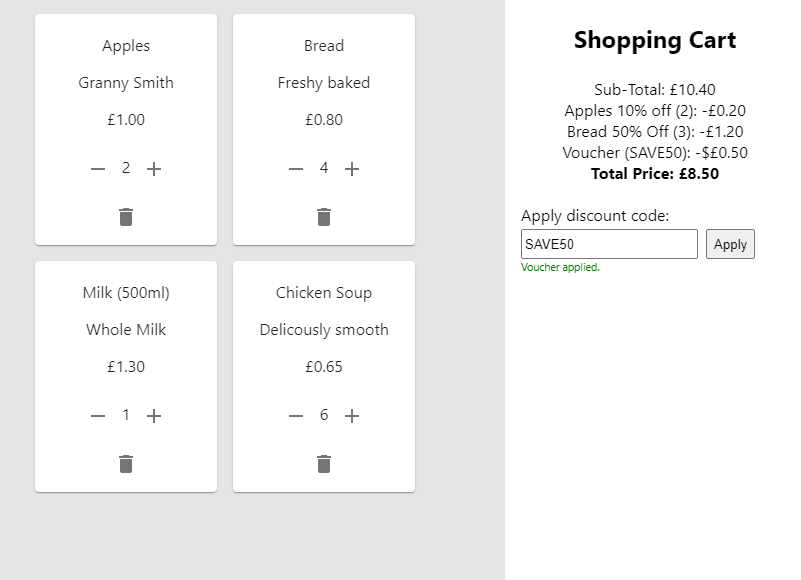
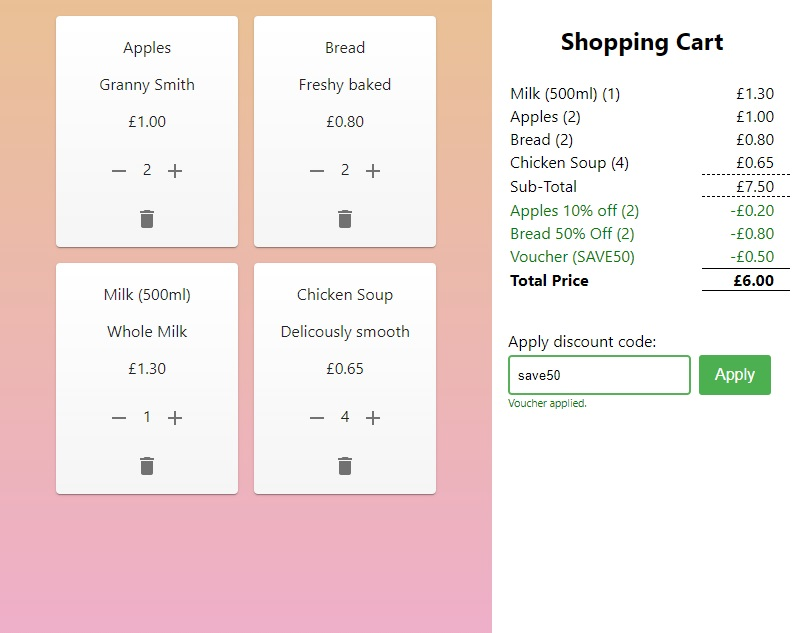
Add list of bought items to cart, update css styling to add colours. Put cart items into table

diff --git a/src/shopping/Cart.js b/src/shopping/Cart.js
@@ -1,4 +1,4 @@
-import React, { useState } from "react";
+import React, { useState, Fragment } from "react";
 import "./Cart.css";
 import { offerFilters, discountCodes } from "./offers";
 import { formatPrice } from "./cartHelper";
@@ -30,7 +30,12 @@ const Cart = (props) => {
         if (offer.discount > 0) {
           offerMatched = true;
         }
-        return <div key={index}>{offer.message}</div>;
+        const offerMessage = offer.message ? (
+          <tr className="offer" key={index}>
+            {offer.message}
+          </tr>
+        ) : null;
+        return offerMessage;
       });
 
     if (voucher) {
@@ -38,17 +43,29 @@ const Cart = (props) => {
       total < 0 && (total = 0);
     }
     return (
-      <div>
-        {offerMatched ? offers : !voucher && <div>(No offers available)</div>}
+      <Fragment>
+        {offerMatched
+          ? offers
+          : !voucher && (
+              <td>
+                <tr>(No offers available)</tr>
+              </td>
+            )}
         {voucher && (
-          <div>
-            Voucher ({voucher.code}): -${formatPrice(voucher.amount)}
-          </div>
+          <tr className="offer">
+            <td>Voucher ({voucher.code})</td>
+            <td>-{formatPrice(voucher.amount)}</td>
+          </tr>
         )}
-        <div>
-          <b>Total Price: {formatPrice(total)}</b>
-        </div>
-      </div>
+        <tr>
+          <td>
+            <b>Total Price</b>
+          </td>
+          <td className="total">
+            <b>{formatPrice(total)}</b>
+          </td>
+        </tr>
+      </Fragment>
     );
   };
 
@@ -67,12 +84,26 @@ const Cart = (props) => {
   let priceSummary = getPriceSummary(items, subTotal);
 
   return (
-    <>
+    <Fragment>
       <p className="cartHeader">Shopping Cart</p>
-      <div>
-        Sub-Total: {formatPrice(subTotal)}
+      <table>
+        {Object.keys(items).map((key) => {
+          const item = items[key];
+          return (
+            <tr>
+              <td>
+                {item.name} ({item.quantity})
+              </td>
+              <td>{formatPrice(item.price)}</td>
+            </tr>
+          );
+        })}
+        <tr>
+          <td>Sub-Total</td>
+          <td className="subtotal">{formatPrice(subTotal)}</td>
+        </tr>
         {priceSummary}
-      </div>
+      </table>
       <br />
       <div className="discount">
         Apply discount code:
@@ -87,7 +118,7 @@ const Cart = (props) => {
         {voucherError && <div className="error">Invalid voucher.</div>}
         {voucher && <div className="success">Voucher applied.</div>}
       </div>
-    </>
+    </Fragment>
   );
 };
 

diff --git a/src/shopping/ShoppingApp.js b/src/shopping/ShoppingApp.js
@@ -1,12 +1,11 @@
-import './ShoppingApp.css';
-import inventory from './inventory';
-import Cart from './Cart';
-import React from 'react';
-import Item from './Item';
-import Grid from '@material-ui/core/Grid';
+import "./ShoppingApp.css";
+import inventory from "./inventory";
+import Cart from "./Cart";
+import React from "react";
+import Item from "./Item";
+import Grid from "@material-ui/core/Grid";
 
 class ShoppingApp extends React.Component {
-
   constructor(props) {
     super(props);
     this.state = {
@@ -14,10 +13,10 @@ class ShoppingApp extends React.Component {
     };
   }
 
-  getQuantity = item => {
+  getQuantity = (item) => {
     const cartItem = this.state.cart[item.sku];
     return cartItem ? cartItem.quantity : 0;
-  }
+  };
 
   setQuantity = (item, quantity) => {
     if (quantity === 0) {
@@ -27,37 +26,38 @@ class ShoppingApp extends React.Component {
     this.setState({
       cart: {
         ...this.state.cart,
-        [item.sku] : {...item, quantity}
+        [item.sku]: { ...item, quantity }
       }
     });
-  }
+  };
 
-  deleteItemFromCart = item => {
-    let newCart = {...this.state.cart};
+  deleteItemFromCart = (item) => {
+    let newCart = { ...this.state.cart };
     delete newCart[item.sku];
-    this.setState({cart: newCart});
-  }
+    this.setState({ cart: newCart });
+  };
 
   render() {
-    const items = <Grid container className="itemsWrapper" spacing={2}>
-      {
-        inventory.map(item => <Item
-                                key={item.sku} 
-                                item={item} 
-                                quantity={this.getQuantity(item)} 
-                                setQuantity={this.setQuantity}
-                                deleteItemFromCart={this.deleteItemFromCart}
-                                />)
-      }
-    </Grid>;
+    const items = (
+      <Grid container className="itemsWrapper" spacing={2}>
+        {inventory.map((item) => (
+          <Item
+            className="item"
+            key={item.sku}
+            item={item}
+            quantity={this.getQuantity(item)}
+            setQuantity={this.setQuantity}
+            deleteItemFromCart={this.deleteItemFromCart}
+          />
+        ))}
+      </Grid>
+    );
 
     return (
       <div className="shoppingApp">
-        <div className="leftSide">
-          {items}
-        </div>
+        <div className="leftSide">{items}</div>
         <div className="rightSide">
-          <Cart items={this.state.cart}/>
+          <Cart items={this.state.cart} />
         </div>
       </div>
     );

diff --git a/src/shopping/Cart.css b/src/shopping/Cart.css
@@ -1,29 +1,79 @@
 .drawer {
-    width: 300px;
-    flex-shrink: 0;
-  }
-  .cartHeader {
-    font-size: 24px;
-    font-weight: bold;
-  }
-  .discount {
-    text-align: left;
-    margin-left: 16px;
-  }
-  .voucher {
-    height: 24px;
-    margin-right: 8px;
-    margin-top: 4px;
-  }
-  .button {
-    height: 30px;
-  }
-  .error {
-    font-size: 8pt;
-    color: red;
-  }
-  .success {
-    font-size: 8pt;
-    color: green;
-  }
-  
+  width: 300px;
+  flex-shrink: 0;
+}
+.cartHeader {
+  font-size: 24px;
+  font-weight: bold;
+}
+.discount {
+  text-align: left;
+  margin-left: 16px;
+}
+.voucher {
+  height: 34px;
+  margin-right: 8px;
+  margin-top: 4px;
+  border: 2px solid #58b158;
+  border-radius: 4px;
+  padding-left: 8px;
+}
+.voucher:focus {
+  border: 2px solid #6cc56c;
+  box-shadow: 0px 0px 5px #a2f1a2;
+  border-radius: 4px;
+  outline: none;
+}
+.button {
+  height: 40px;
+  background-color: #4caf50; /* Green */
+  border: none;
+  border-radius: 3px;
+  color: white;
+  text-align: center;
+  text-decoration: none;
+  display: inline-block;
+  font-size: 16px;
+  padding: 0px 16px;
+}
+.button:hover {
+  background-color: #56c258; /* Green */
+}
+.button:active {
+  background-color: #378f38; /* Green */
+  transform: scale(0.95);
+}
+.error {
+  font-size: 8pt;
+  color: red;
+}
+.success {
+  font-size: 8pt;
+  color: green;
+}
+table {
+  display: table;
+  margin-bottom: 16px;
+  width: 100%;
+}
+td {
+  padding: 0px 16px;
+}
+td:nth-child(1) {
+  width: 70%;
+  text-align: left;
+}
+td:nth-child(2) {
+  text-align: right;
+}
+.subtotal {
+  border-bottom: 1px dashed black;
+  border-top: 1px dashed black;
+}
+.total {
+  border-bottom: 1px solid black;
+  border-top: 1px solid black;
+}
+.offer {
+  color: green;
+}

diff --git a/src/shopping/offers.js b/src/shopping/offers.js
@@ -1,3 +1,4 @@
+import { Fragment } from "react";
 import { SKU } from "./inventory";
 import { formatPrice } from "./cartHelper";
 
@@ -11,7 +12,12 @@ export const offerFilters = [
     if (itemInBasket) {
       const { quantity, price } = itemInBasket;
       discount = price * quantity * 0.1;
-      message = `Apples 10% off (${quantity}): -${formatPrice(discount)}`;
+      message = (
+        <Fragment>
+          <td>Apples 10% off ({quantity})</td>
+          <td>-{formatPrice(discount)}</td>
+        </Fragment>
+      );
     }
     return {
       message,
@@ -33,9 +39,12 @@ export const offerFilters = [
           breadInBasket.quantity
         );
         discount = breadInBasket.price * numberOfDiscounts * 0.5;
-        message = `Bread 50% Off (${numberOfDiscounts}): -${formatPrice(
-          discount
-        )}`;
+        message = (
+          <Fragment>
+            <td>Bread 50% Off ({numberOfDiscounts})</td>
+            <td>-{formatPrice(discount)}</td>
+          </Fragment>
+        );
       }
     }
     return {

diff --git a/src/shopping/ShoppingApp.css b/src/shopping/ShoppingApp.css
@@ -1,13 +1,9 @@
 .shoppingApp {
   text-align: center;
-  background-color: rgb(230, 228, 228);
-  min-height: 100vh;
+  height: 100vh;
   display: flex;
   flex-direction: column;
-  align-items: center;
   justify-content: center;
-  font-size: 16px;
-  height: 100%;
 }
 
 .itemsWrapper {
@@ -23,7 +19,11 @@
   height: 100%;
   overflow-y: auto;
   overflow-x: hidden;
-  /* padding: 10px; */
+  background: linear-gradient(
+    0deg,
+    rgba(238, 174, 202, 1) 0%,
+    rgba(233, 193, 148, 1) 100%
+  );
 }
 
 .rightSide {
@@ -32,4 +32,13 @@
   height: 100%;
   right: 0;
   background-color: white;
+}
+
+.item {
+  background: linear-gradient(
+    0deg,
+    rgb(245, 245, 245) 0%,
+    rgba(255, 255, 255, 1) 100%
+  );
+  color: rgb(173, 108, 21);
 }
